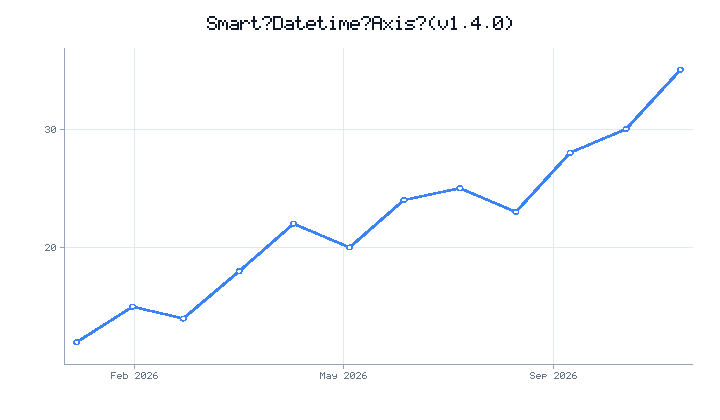
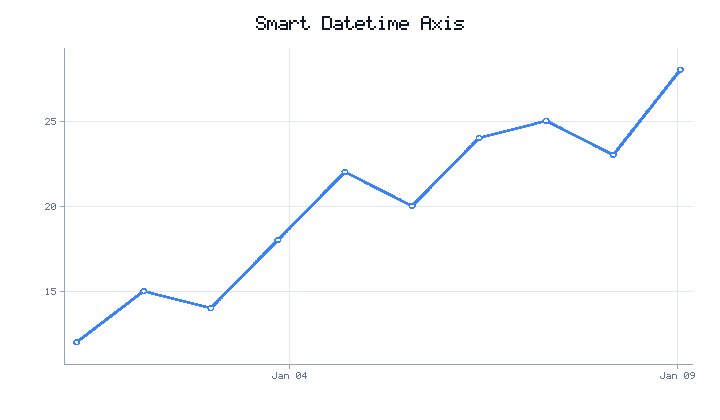
feat: map whitespace characters to empty space glyph to prevent fallback to '?' in PNG output
Whitespace characters (such as non-breaking spaces `\u00a0`, tabs `\t`, and newlines `\n`) are now explicitly resolved to the standard space glyph `" "` in the pure-Python bitmap font (`ezplot/font.py`). This prevents them from falling back to the default `"?"` glyph and corrects rendering issues across PNG outputs (such as showcase titles and axis labels). Added unit tests and regenerated showcase documentation figures.

diff --git a/ezplot/font.py b/ezplot/font.py
@@ -140,6 +140,8 @@ def _ensure_cache() -> None:
 def glyph(ch: str) -> tuple[int, ...]:
     if ch in _GLYPHS:
         return _GLYPHS[ch]
+    if ch.isspace():
+        return _GLYPHS[" "]
     low = ch.lower()
     if low in _GLYPHS:
         return _GLYPHS[low]
@@ -166,11 +168,19 @@ def iter_pixels(text: str, scale: int = 1, tracking: int = 1):
         if scale == 1:
             pix = _PIX1.get(ch)
             if pix is None:
-                pix = _PIX1.get(ch.lower()) or _PIX1.get("?", [])
+                if ch.isspace():
+                    pix = _PIX1.get(" ")
+                else:
+                    pix = _PIX1.get(ch.lower()) or _PIX1.get("?", [])
             for dx, dy in pix:
                 yield x0 + dx, dy
         elif scale == 2 and cache is not None:
-            pix = cache.get(ch) or cache.get(ch.lower()) or cache.get("?", [])
+            pix = cache.get(ch)
+            if pix is None:
+                if ch.isspace():
+                    pix = cache.get(" ")
+                else:
+                    pix = cache.get(ch.lower()) or cache.get("?", [])
             for dx, dy in pix:
                 yield x0 + dx, dy
         else:

diff --git a/generate_docs_showcases.py b/generate_docs_showcases.py
@@ -1,0 +1,27 @@
+import datetime
+import ezplot as ez
+
+def generate_showcase_datetime():
+    dates = [datetime.datetime(2026, 1, i) for i in range(1, 11)]
+    values = [12, 15, 14, 18, 22, 20, 24, 25, 23, 28]
+    ez.line(dates, values, t="Smart Datetime Axis", save="docs/showcase_datetime.png")
+
+def generate_showcase_custom():
+    def draw_target_zone(r):
+        # Draw green band from y=180 to y=280
+        r.draw_rect(0, 180, 11, 100, "#10b981", fill=True)
+        # Draw red dashed line at y=230
+        r.draw_line(0, 230, 11, 230, "red", width=1.5, dashed=True)
+        # Draw text "Target Threshold" in red
+        r.draw_text(0.6, 238, "Target Threshold", "red", size=11)
+
+    x = [1, 2, 5, 6, 7, 8, 10]
+    y = [150, 210, 210, 300, 360, 240, 320]
+
+    p = ez.line(x, y).t("Custom Overlay Highlight (.draw())").draw(draw_target_zone)
+    p.save("docs/showcase_custom.png")
+
+if __name__ == "__main__":
+    generate_showcase_datetime()
+    generate_showcase_custom()
+    print("Showcase images successfully generated and saved to docs/!")

diff --git a/tests/test_basic.py b/tests/test_basic.py
@@ -330,6 +330,19 @@ def test_custom_series_kind():
     assert "gold" in svg
 
 
+def test_whitespace_font_fallback():
+    from ezplot import font
+    # Standard space yields 0 pixels (empty glyph)
+    assert len(list(font.iter_pixels(" "))) == 0
+    # Non-breaking space \u00a0 yields 0 pixels (falls back to space instead of "?")
+    assert len(list(font.iter_pixels("\u00a0"))) == 0
+    # Other whitespaces also yield 0 pixels
+    assert len(list(font.iter_pixels("\t"))) == 0
+    assert len(list(font.iter_pixels("\n"))) == 0
+    # Question mark should have non-zero pixels
+    assert len(list(font.iter_pixels("?"))) > 0
+
+
 if __name__ == "__main__":
     failed = 0
     for name, fn in list(globals().items()):
